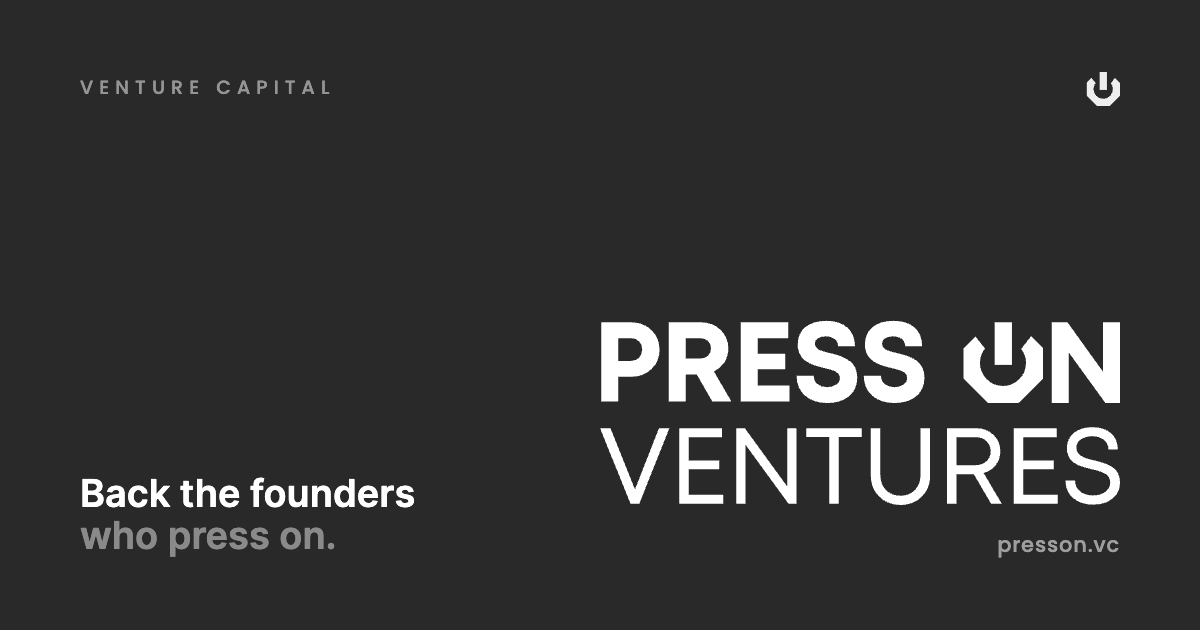
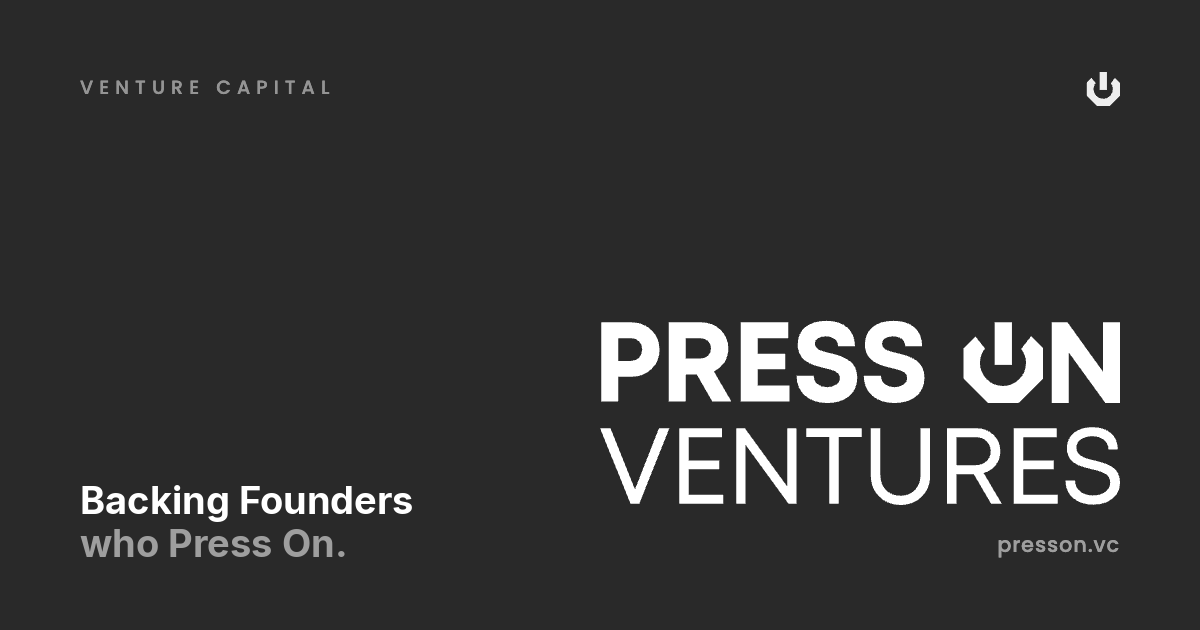
Update OG share image text: 'Backing Founders who Press On.'

Changed region(s): [[0.0617, 0.754, 0.37, 0.9048]]

diff --git a/app/layout.tsx b/app/layout.tsx
@@ -51,7 +51,7 @@ export const metadata: Metadata = {
         url: OG_IMAGE,
         width: 1200,
         height: 630,
-        alt: 'Press On Ventures. Back the founders who press on.',
+        alt: 'Press On Ventures. Backing Founders who Press On.',
       },
     ],
   },
